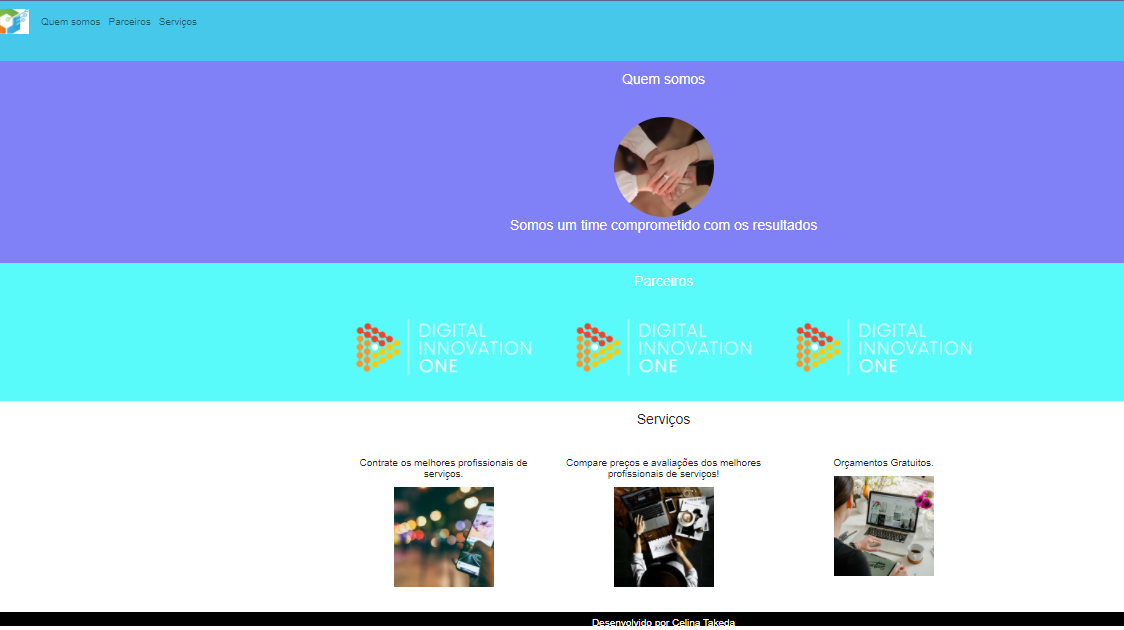
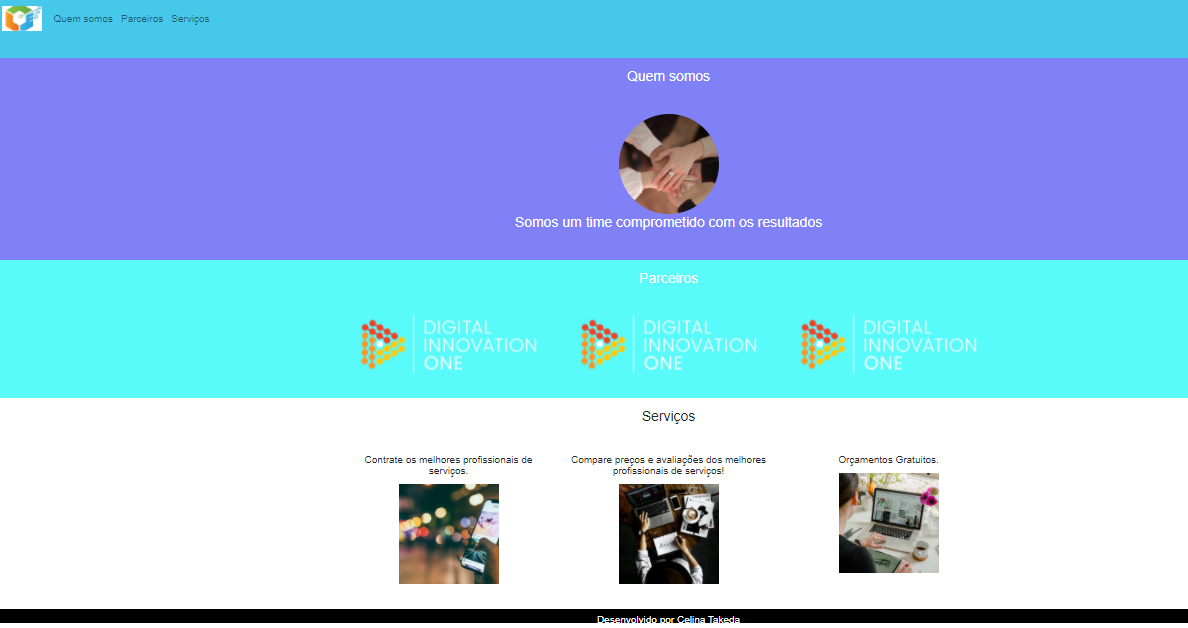
commit

diff --git a/css/style.css b/css/style.css
@@ -1,10 +1,15 @@
 
 body {
     font: 20px Arial, sans-serif;
+
 }
 
 .navbar {
-    background-color:#45c8e9;
+    background-color:#45c8e9;   
+}
+
+.navbar-brand {
+    margin-left: 15px;
 }
 
 .quem-somos {
